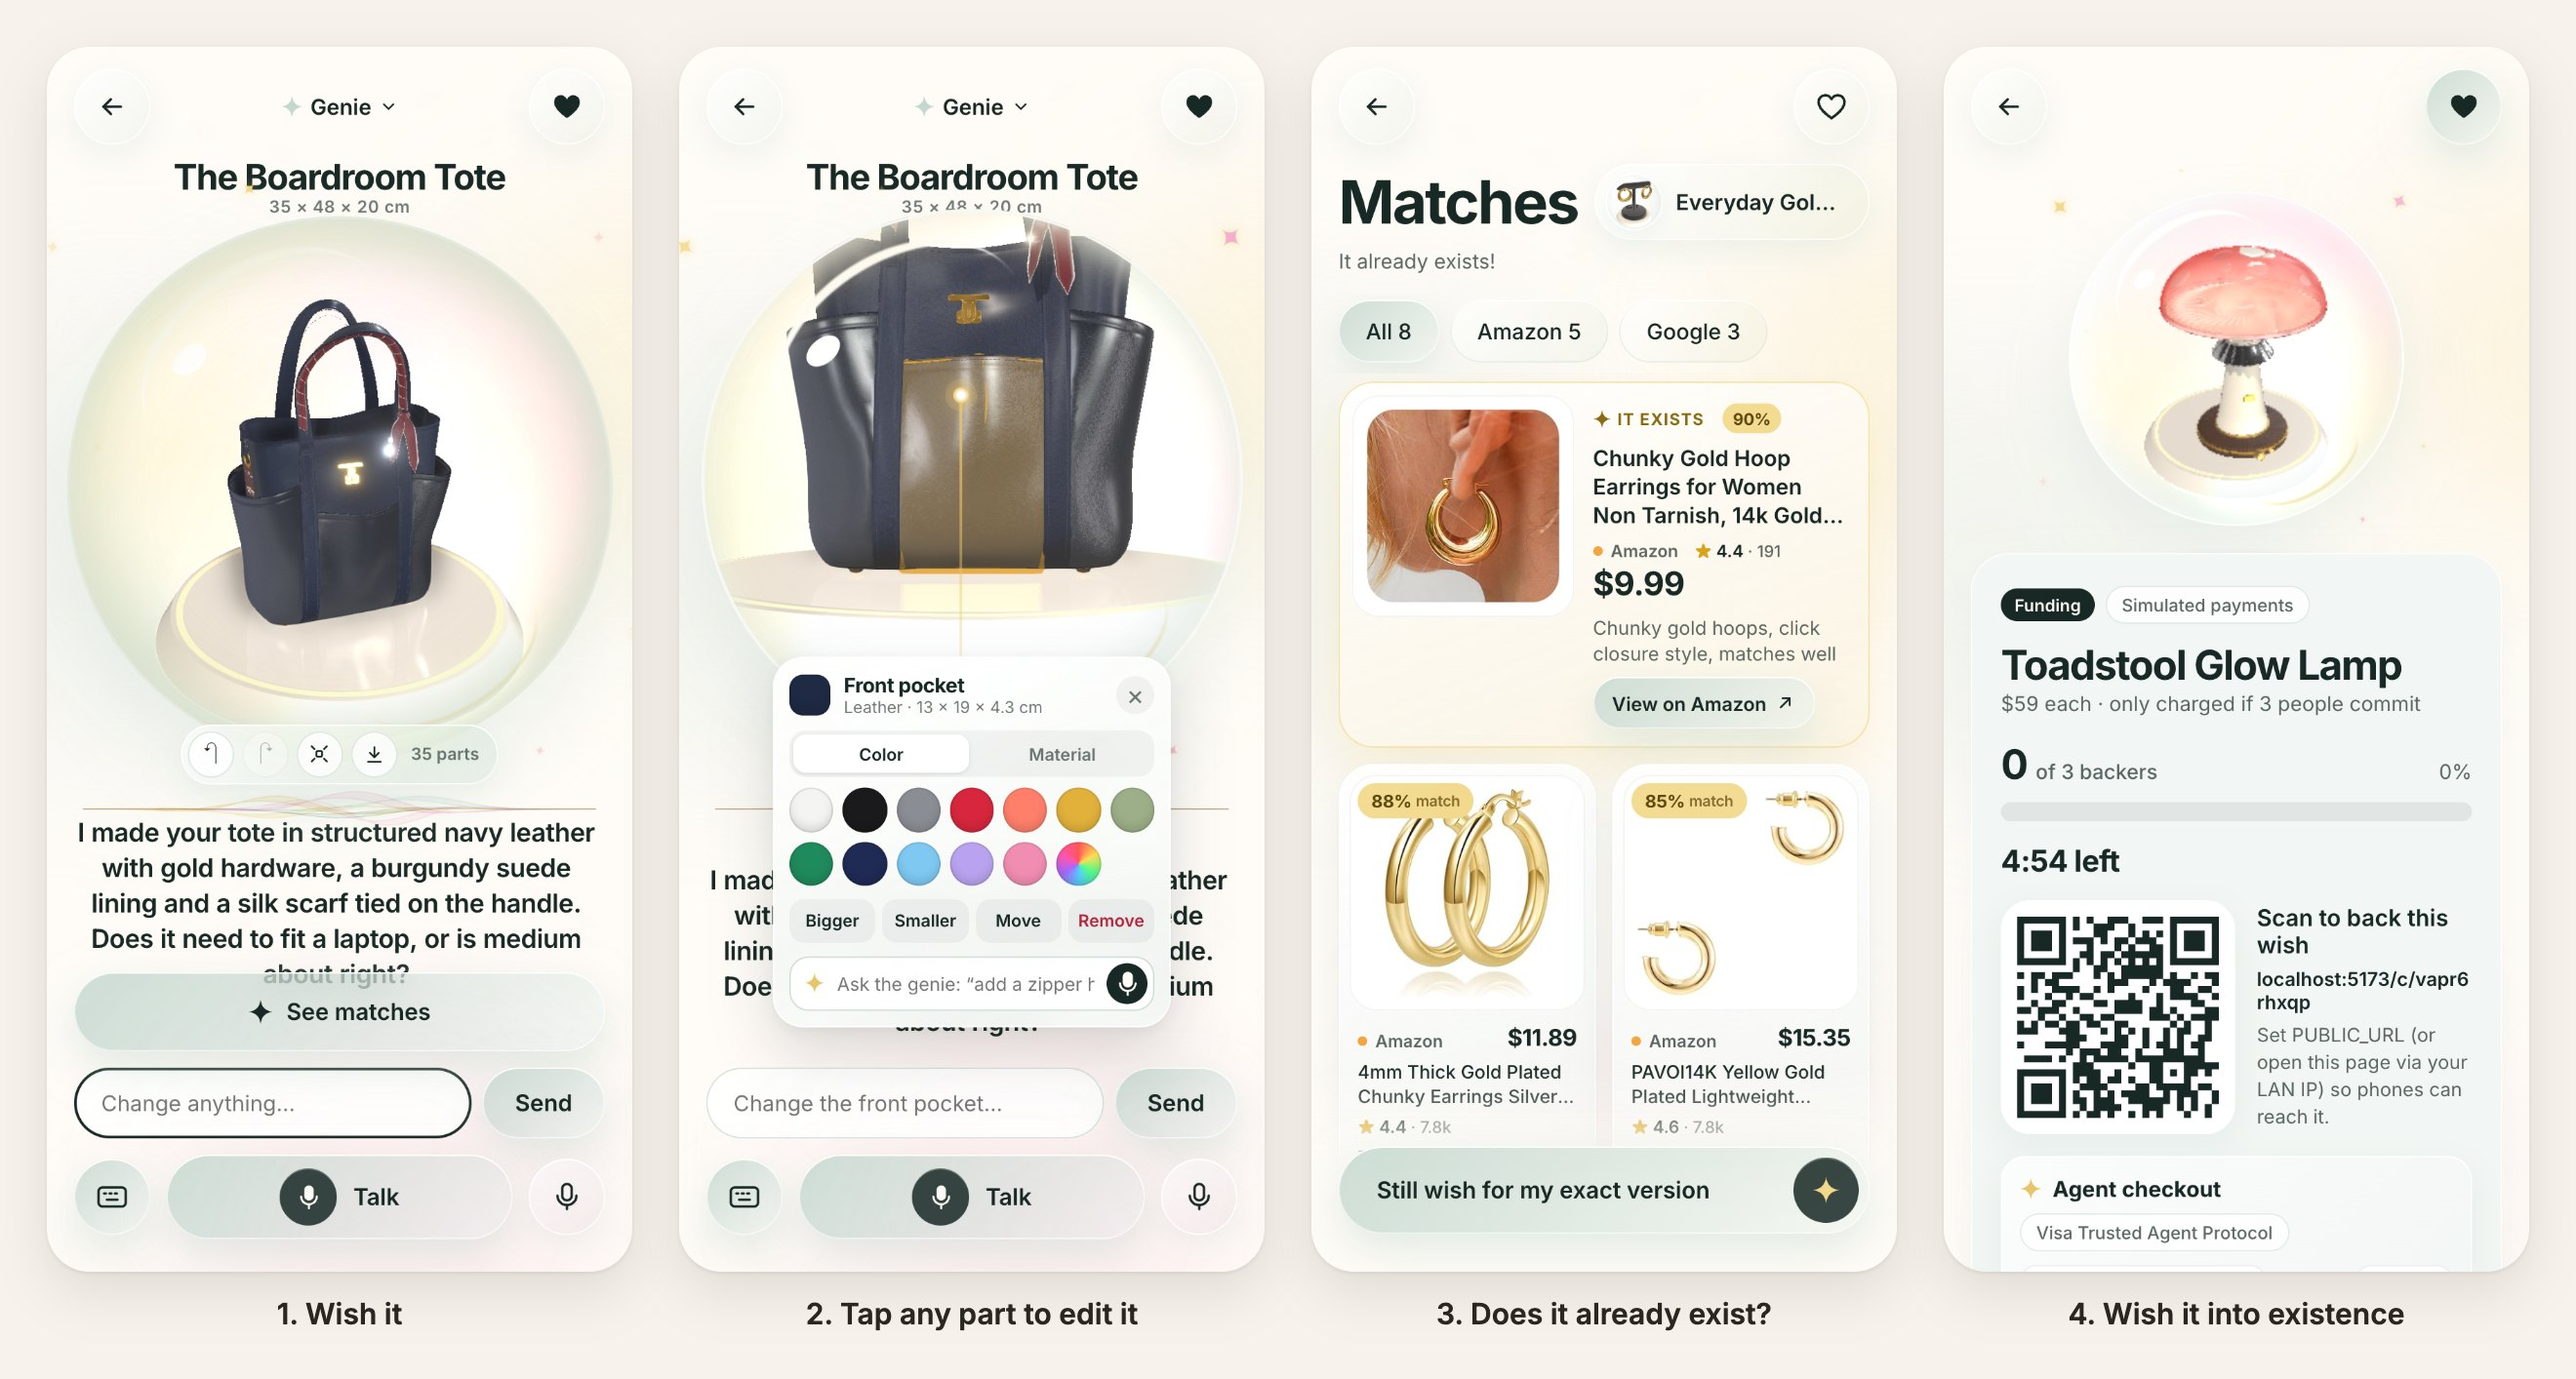
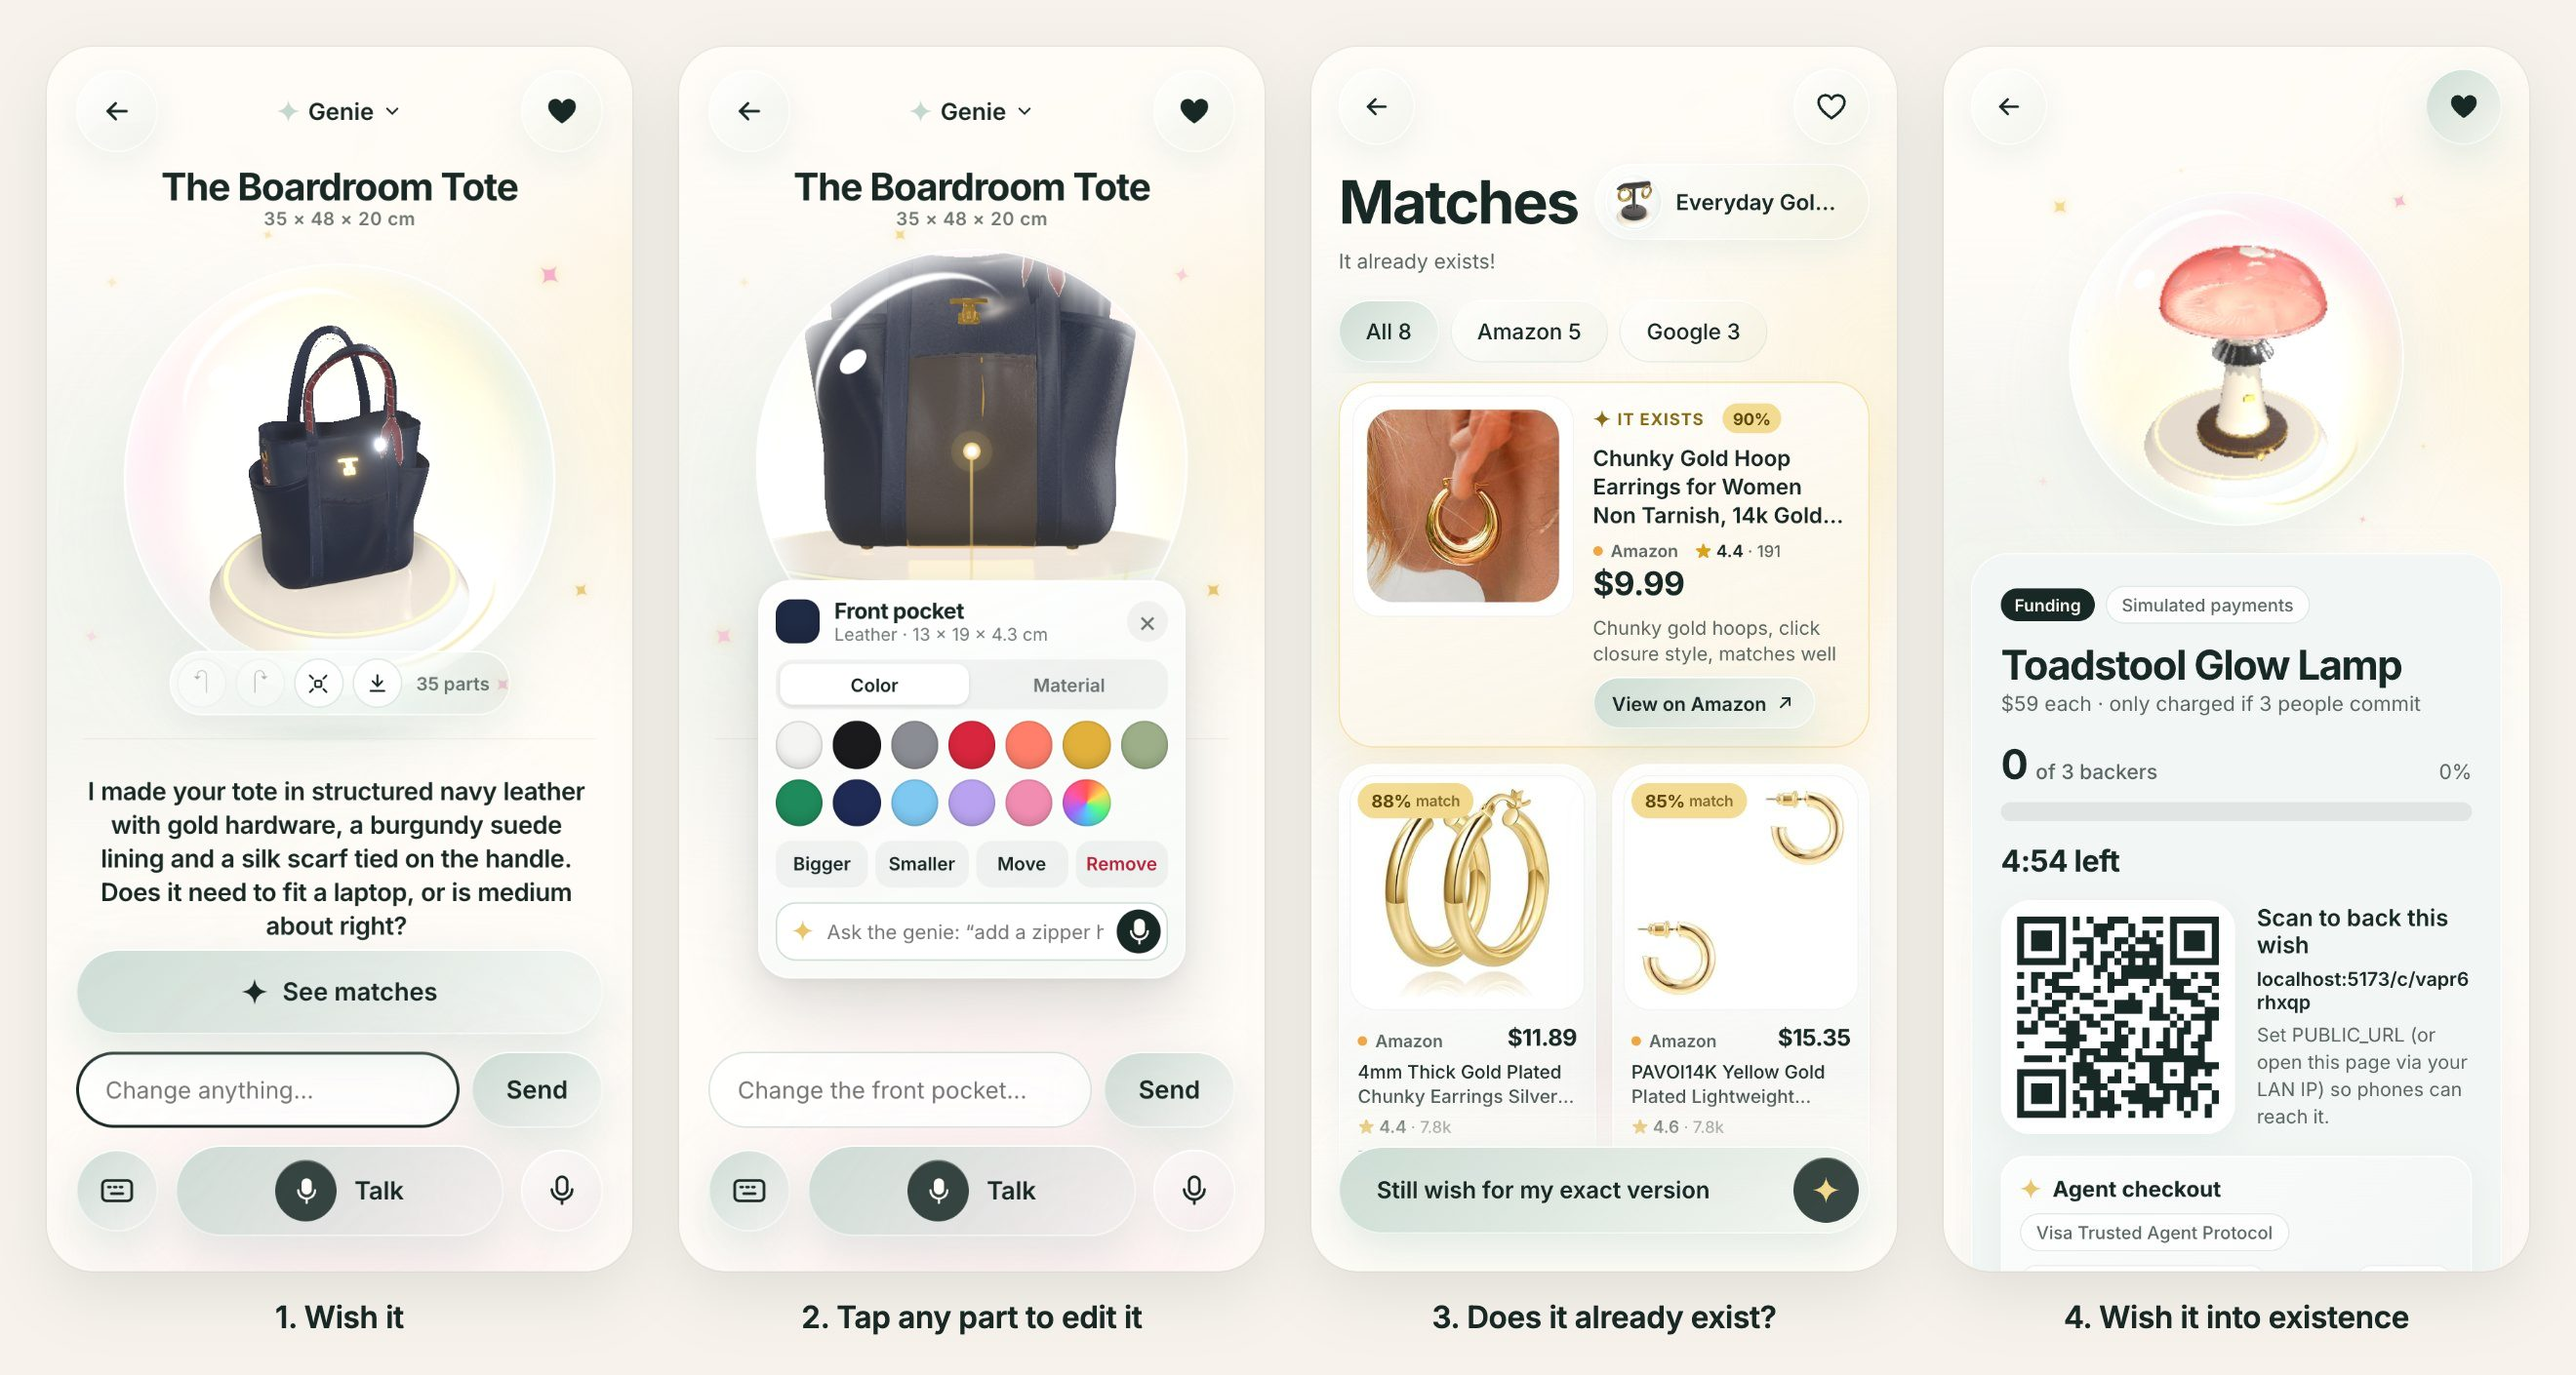
fix: keep studio title size and genie caption clear of the bubble
- Start the bubble below the size line (it floats up 12px and covered it)
- Budget the bubble for a five-line caption and the open type box, so long
  genie lines no longer spill into See matches or push the dock off screen
- Long captions scroll inside their box as a last resort on short screens
- Retake README screenshots with the fixed layout

diff --git a/web/src/styles.css b/web/src/styles.css
@@ -519,10 +519,13 @@ p { margin: 0; }
 
 /* ---------- Part builder: bigger stage once a product exists ---------- */
 .app.has-product { max-width: 860px; }
-.product-size { flex: none; text-align: center; font-size: 12.5px; font-weight: 600; color: var(--ink-55); letter-spacing: .02em; height: 16px; margin-top: -2px; font-variant-numeric: tabular-nums; }
-/* Vertical budget: header 72 + title 40 + size 16 + waveform 50 + speech 96 + matches pill 68 + dock 86 ≈ 430. */
+.product-size { flex: none; position: relative; z-index: 3; text-align: center; font-size: 12.5px; font-weight: 600; color: var(--ink-55); letter-spacing: .02em; height: 16px; margin-top: -2px; font-variant-numeric: tabular-nums; }
+/* Vertical budget: header 72 + title 40 + size 14 + gap 22 (the bubble floats up 12px) + waveform 50
+   + speech 124 (five caption lines) + matches pill 70 + dock 86 = 478; the type box adds 64. */
+.app.has-product { --chrome: 478px; }
+.app.has-product.typing { --chrome: 542px; }
 .app.has-product .orb-slot {
-  --bubble: clamp(260px, min(92vw, calc(100dvh - 452px)), 640px); top: 132px;
+  --bubble: clamp(220px, min(92vw, calc(100dvh - var(--chrome))), 640px); top: 148px;
   /* The first product changes the bubble's size and place at once: settle it in place rather than
      sliding (width and left can't transition with it, so a slide flies in from a corner). */
   transition: opacity .4s ease; animation: bubbleSettle .5s var(--spring) both;
@@ -532,11 +535,14 @@ p { margin: 0; }
    wish (Studio sets stage-pending until then), so the content fades in once it's really there. */
 .app.has-product .b-content { transition: opacity .3s ease; }
 .app.stage-pending .b-content { opacity: 0; transition: none; }
-.app.has-product .orb-space { --bubble: clamp(260px, min(92vw, calc(100dvh - 452px)), 640px); margin-top: 8px; }
+.app.has-product .orb-space { --bubble: clamp(220px, min(92vw, calc(100dvh - var(--chrome))), 640px); margin-top: 22px; }
+/* Long genie lines stay inside their box (scrolling in the rare case they outgrow the budget). */
+.app.has-product .speech { min-height: 0; overflow-y: auto; justify-content: safe center; scrollbar-width: none; }
+.app.has-product .line.long { font-size: 17px; line-height: 23px; }
 .app.has-product .wavebox { height: 40px; margin-top: 10px; }
 .app.has-product .wavebox svg { height: 40px; }
 .title-product {
-  flex: none; margin-top: 8px; font-size: 26px; line-height: 32px; letter-spacing: -0.03em; text-align: center;
+  flex: none; position: relative; z-index: 3; margin-top: 8px; font-size: 26px; line-height: 32px; letter-spacing: -0.03em; text-align: center;
   white-space: nowrap; overflow: hidden; text-overflow: ellipsis; animation: fadeIn .5s ease both;
 }
 .b-overlay { position: absolute; inset: 0; pointer-events: none; z-index: 20; }

diff --git a/web/src/screens/Studio.tsx b/web/src/screens/Studio.tsx
@@ -729,9 +729,10 @@ export default function Studio() {
   const wishCount = loadWishlist().length;
   const selPart = selection ? product.parts[selection.partId] : undefined;
   const editing = mode === "voice" && !!selPart;
+  const typeboxOpen = typing || voice.mode === "text";
 
   return (
-    <div className={`app mode-${slot} ${mode === "campaign" ? "scrolls wide" : ""} ${mode === "voice" && hasProduct ? "has-product" : ""} ${editing ? "is-editing" : ""} ${stagePending ? "stage-pending" : ""}`}>
+    <div className={`app mode-${slot} ${mode === "campaign" ? "scrolls wide" : ""} ${mode === "voice" && hasProduct ? "has-product" : ""} ${editing ? "is-editing" : ""} ${mode === "voice" && typeboxOpen ? "typing" : ""} ${stagePending ? "stage-pending" : ""}`}>
       <Glows />
       {showConfetti && <Celebration image={snapshot} line={campaign ? `Funded · ${campaign.captured || campaign.held} of ${campaign.targetBackers}` : undefined} onDone={() => setShowConfetti(false)} />}
       {debug && perf && <div className="perf">{perf}</div>}
@@ -876,7 +877,7 @@ export default function Studio() {
               <Sparkle size={18} color="#182825" /> See matches
             </button>
           )}
-          {(typing || voice.mode === "text") && (
+          {typeboxOpen && (
             <form
               className="typebox"
               onSubmit={(e) => {
